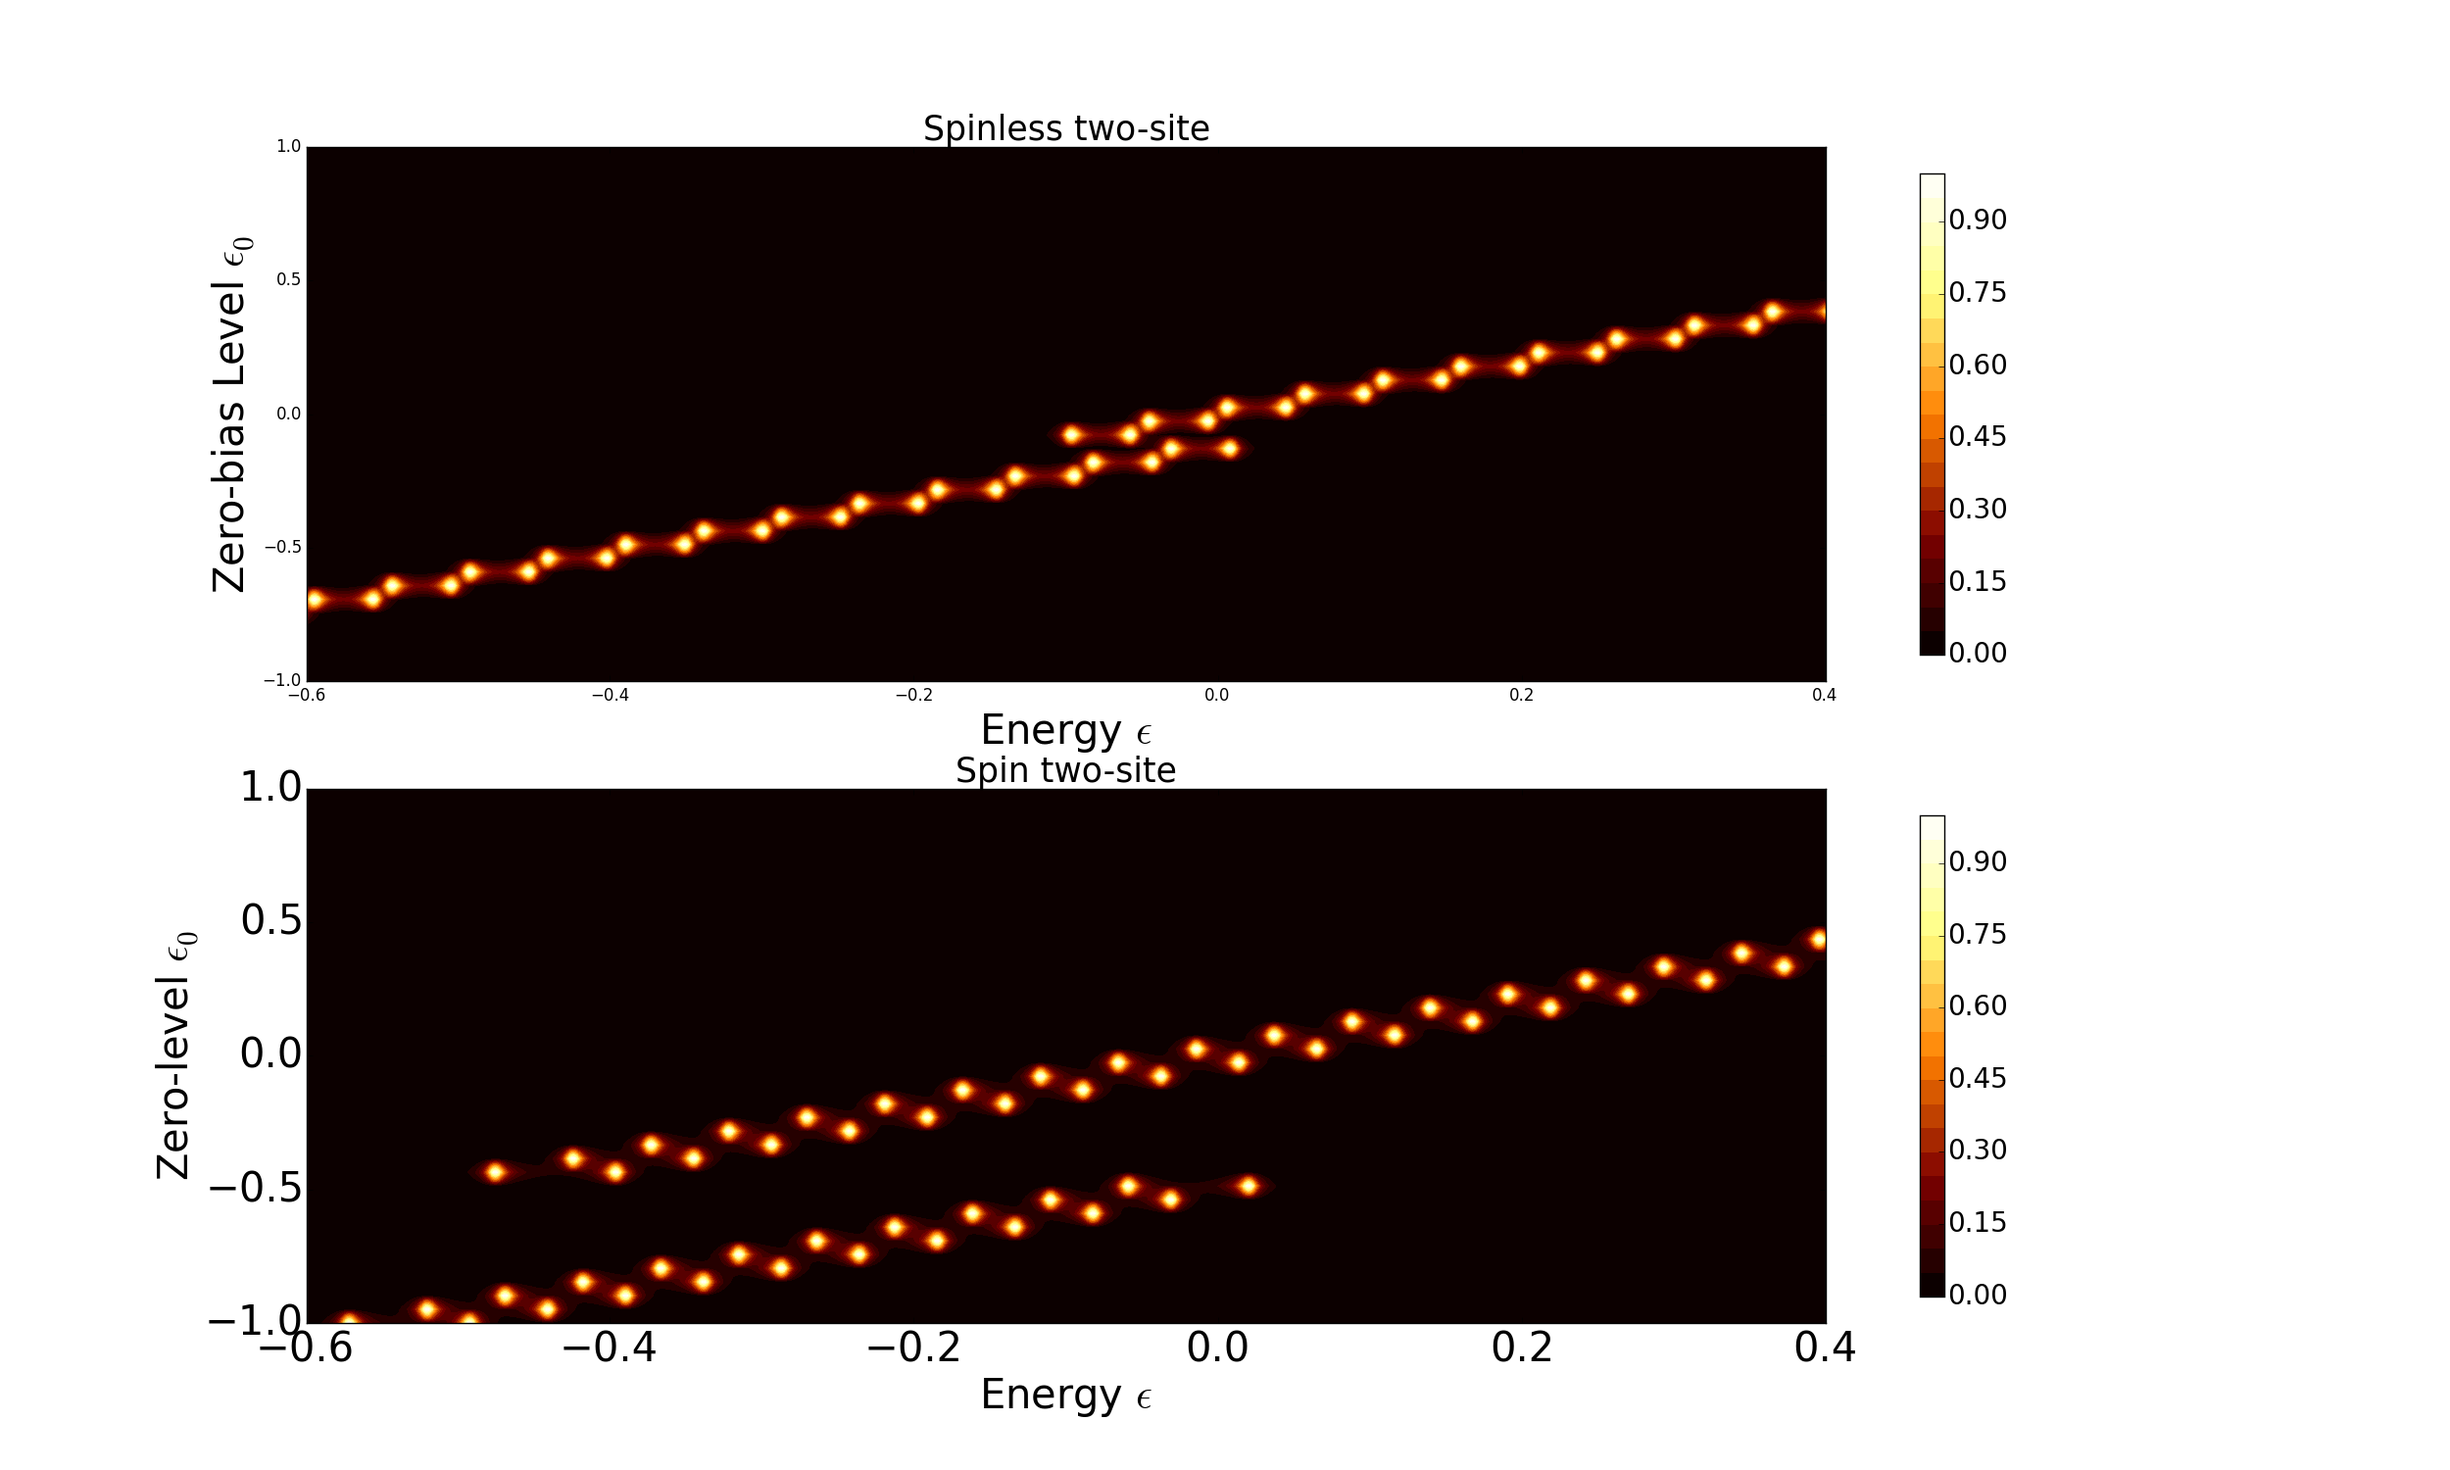
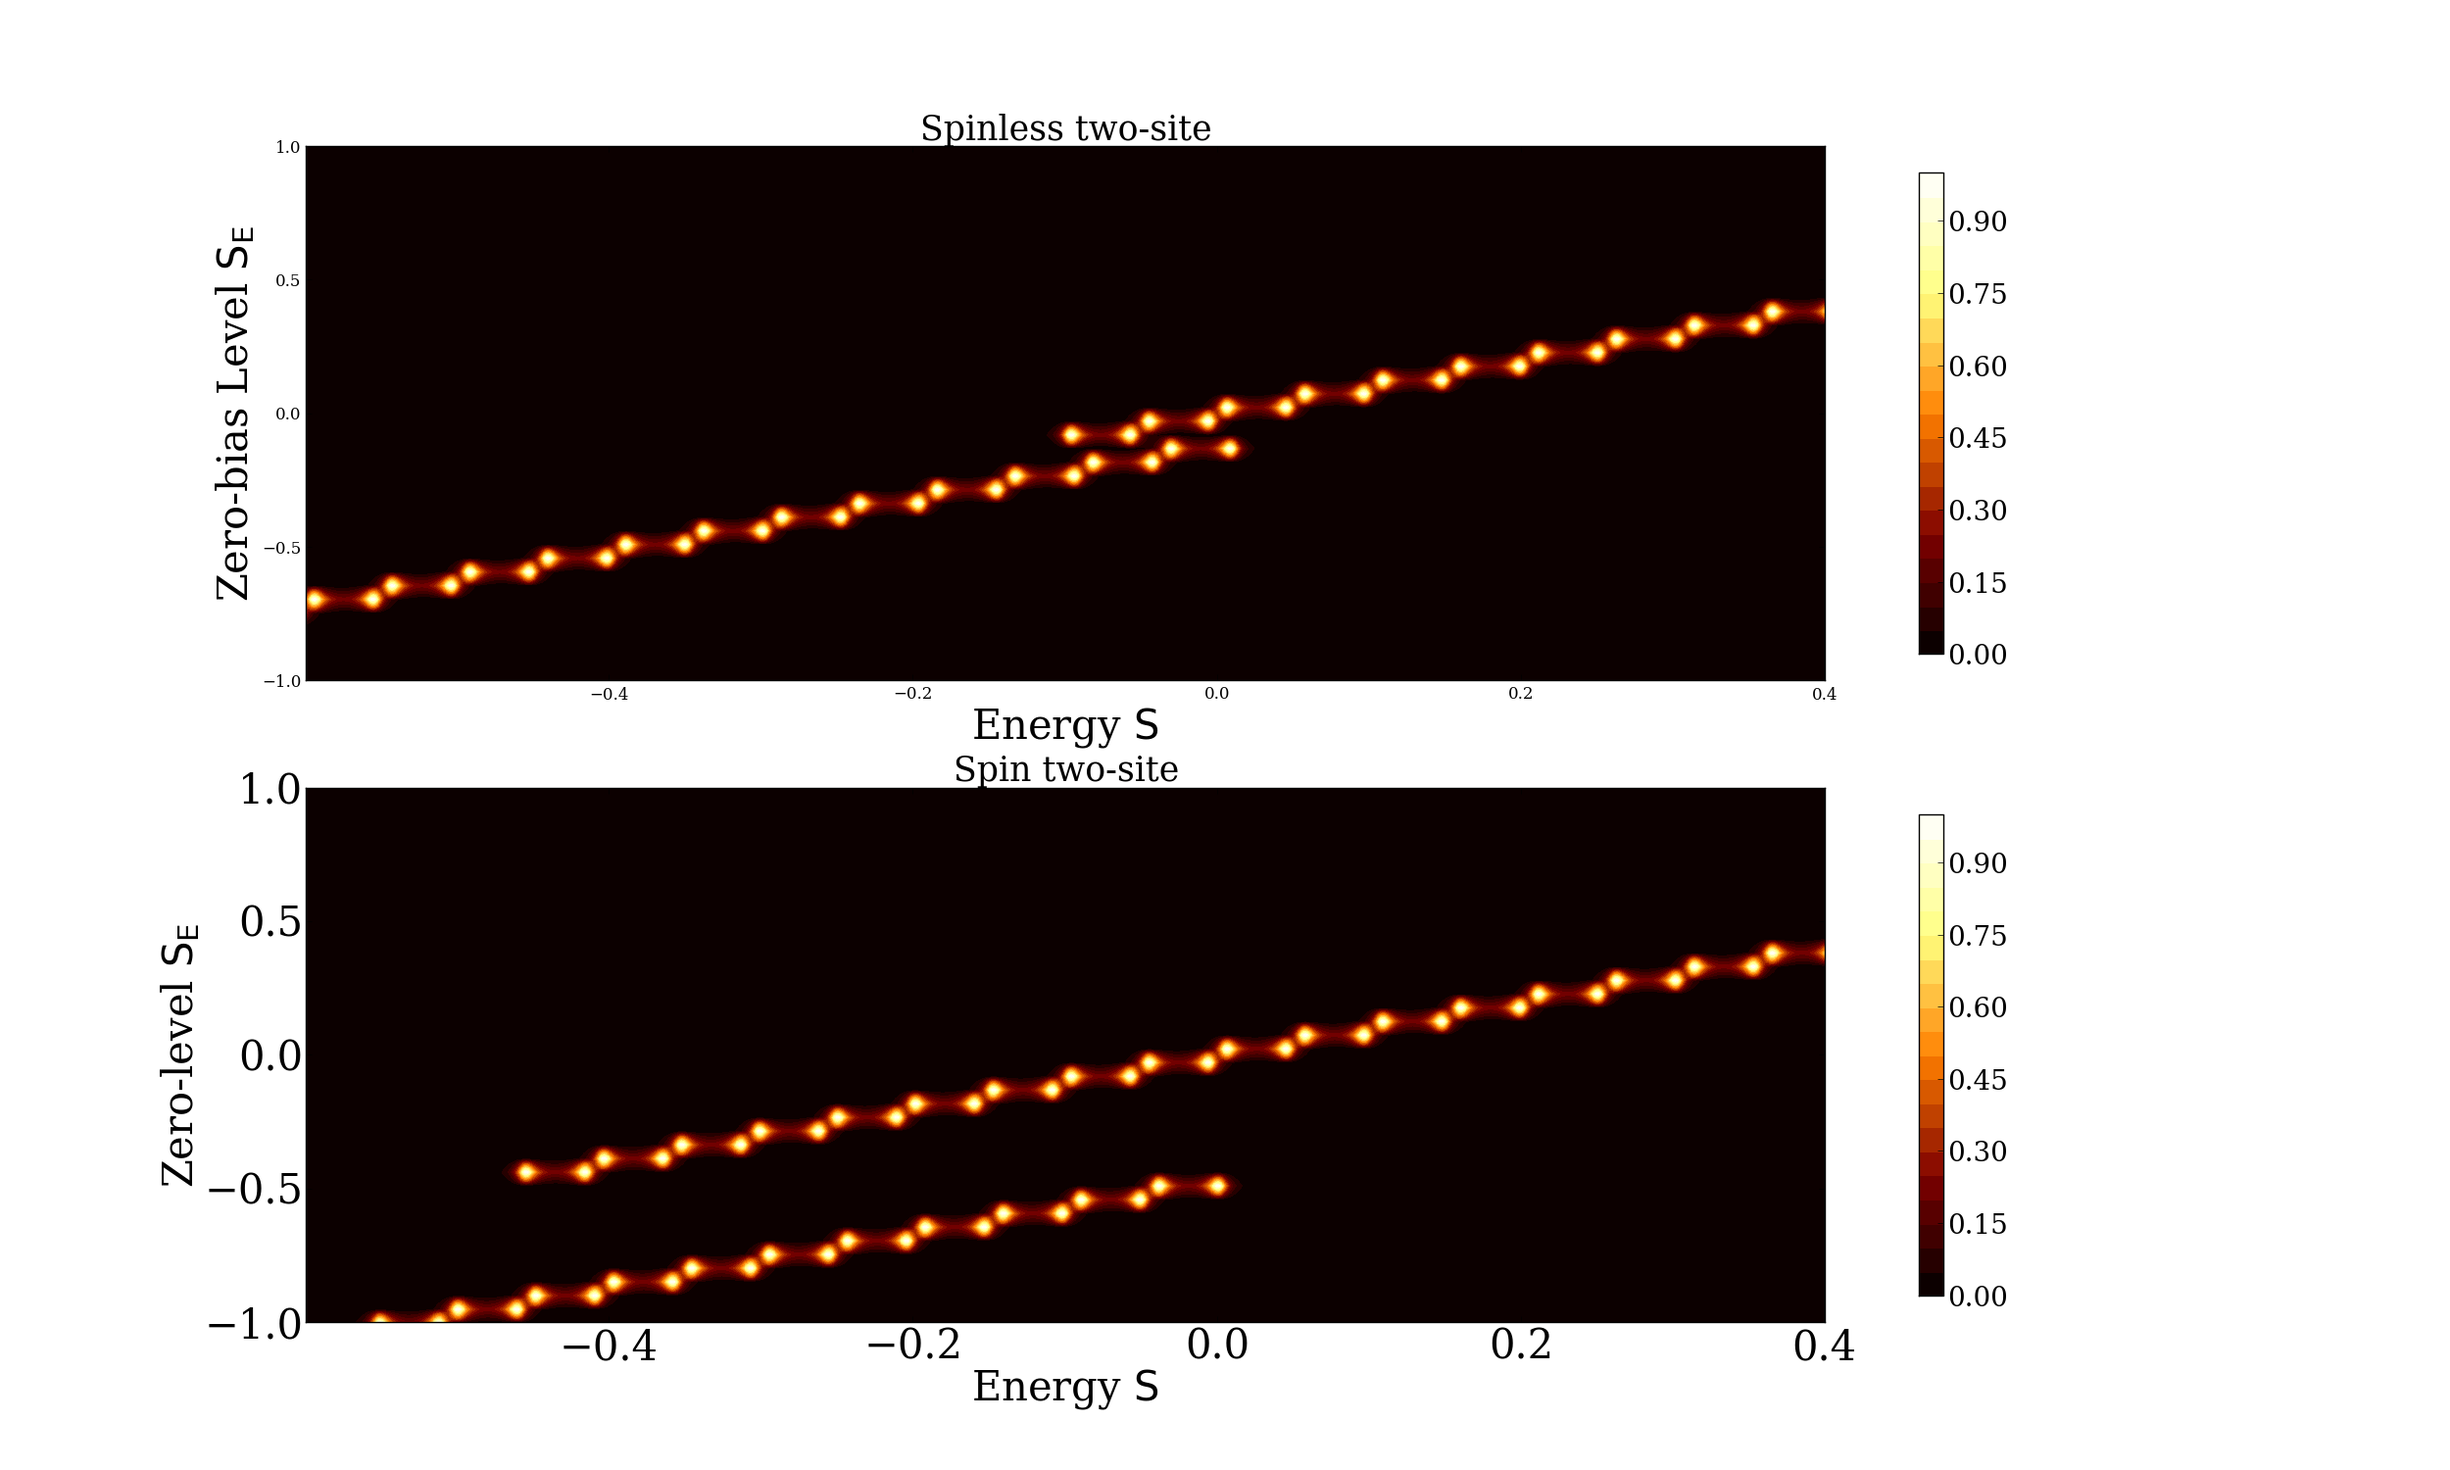
New picture made on cluster.

diff --git a/perspin_transport_map.py b/perspin_transport_map.py
@@ -1,5 +1,6 @@
 import numpy as np
 import matplotlib
+matplotlib.use('Agg')
 import matplotlib.pyplot as plt
 from mpl_toolkits.mplot3d import Axes3D
 from matplotlib import cm
@@ -49,16 +50,16 @@ for levels in params:
 
     perspin_tunnel = np.zeros((4,4))
     perspin_tunnel[0][2] = tau 
-    perspin_tunnel[0][3] = tau 
+    #perspin_tunnel[0][3] = tau 
 
-    perspin_tunnel[1][2] = tau 
+    #perspin_tunnel[1][2] = tau 
     perspin_tunnel[1][3] = tau 
 
     perspin_tunnel[2][0] = tau 
-    perspin_tunnel[2][1] = tau
+    #perspin_tunnel[2][1] = tau
 
     perspin_tunnel[3][0] = tau 
-    perspin_tunnel[3][1] = tau 
+    #perspin_tunnel[3][1] = tau 
 
     perspin_interaction = np.zeros((4,4))
 
